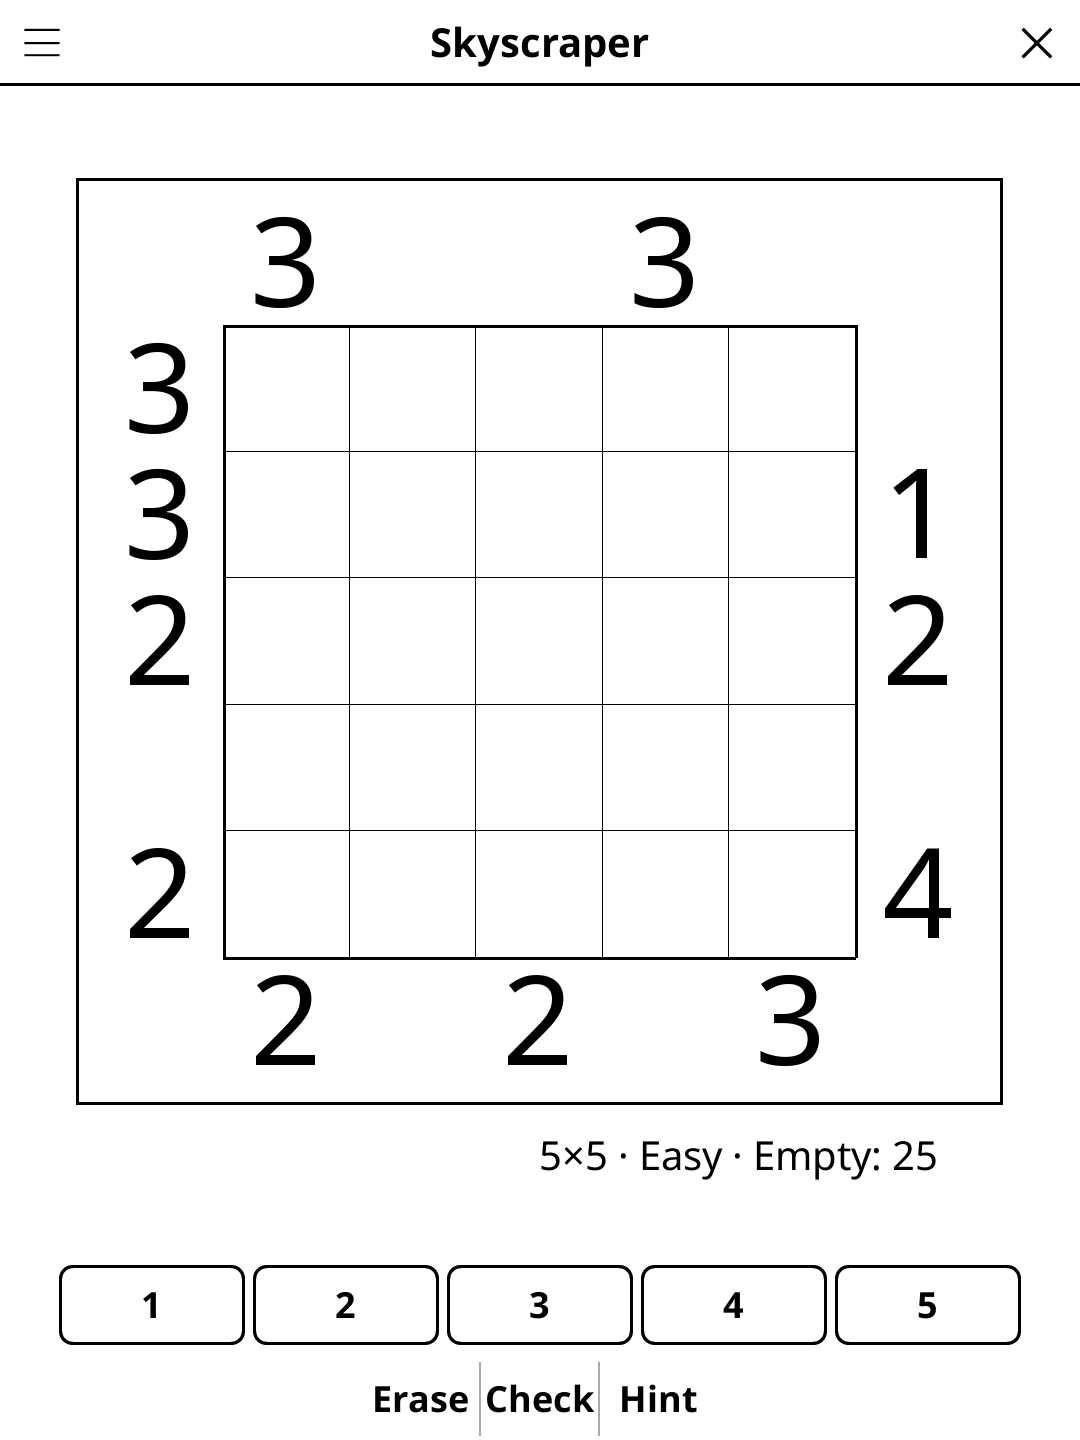
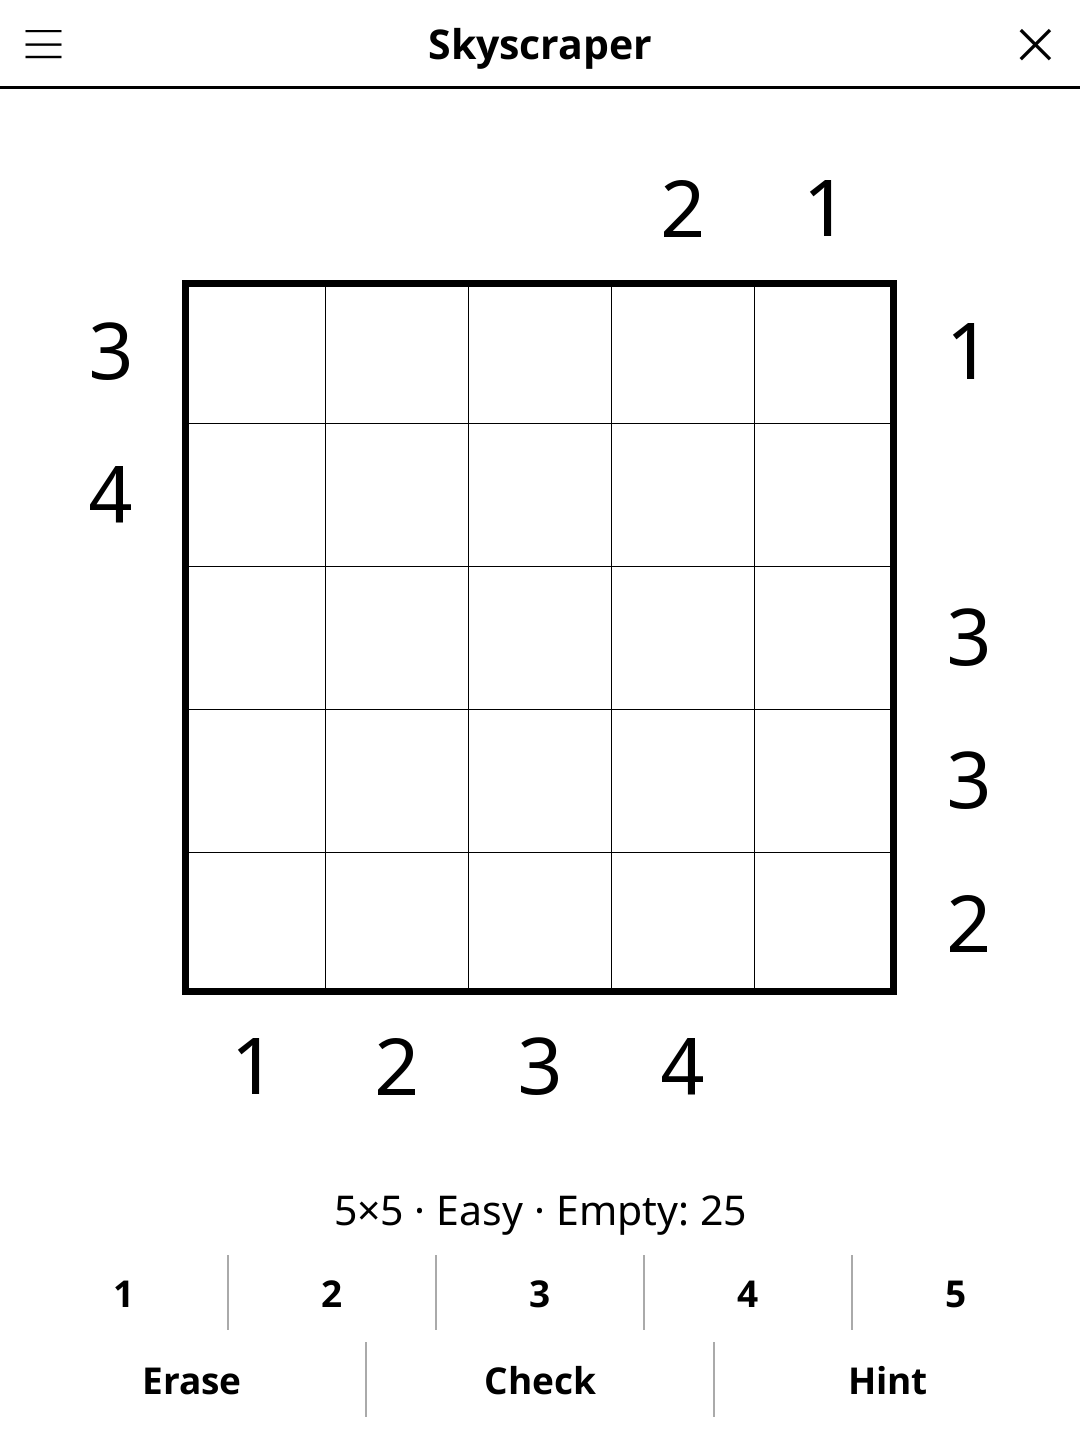
release: 1.3.0 -- redesigned screen, harmonised menu, New game at round end
Screen redesign (full-width action bar, unified pad, status line, larger
board), harmonised title-bar menu, and a "New game" button once the round
is over. See CHANGELOG.md.

diff --git a/CHANGELOG.md b/CHANGELOG.md
@@ -2,6 +2,27 @@
 
 All notable changes to this project will be documented in this file.
 
+## [1.3.0] - 2026-10-30
+
+### Changed
+- Redesigned play screen: the board is larger, filling the room the controls
+  leave, with one even digit pad and a full-width action bar under the status
+  line. The grid's thick outer border is now the board's only frame.
+- The status line reads "5×5 · Medium · Empty: 12" and wraps in landscape
+  instead of being cut off.
+- The title-bar menu shows "Size: …" and "Difficulty: …" (was "Grid: …" and
+  "Diff: …"), like every other game.
+- Once the puzzle is solved, the action bar shows "New game" in place of
+  Erase/Check/Hint, so the next round no longer needs the menu.
+
+### Fixed
+- The clues around the grid came out nearly twice too big on high-DPI
+  readers, and digits overflowed their cells (the shared font fit accepted
+  every size). Both now fit on every screen.
+- The grid's right and bottom border lines were drawn past its edge.
+- Using a hint wiped the saved game; it is now kept. When a hint fills the
+  last cell, the status shows the win message.
+
 ## [1.2.2] - 2026-10-07
 
 ### Fixed

diff --git a/README.md b/README.md
@@ -34,7 +34,7 @@ Place building heights 1–N in each row and column (no repeats, like Sudoku). E
 | Enter a height | Tap the digit button |
 | Erase a cell | Tap **Erase** |
 | Check progress | Tap **Check** |
-| New puzzle | Tap **New** |
+| New puzzle | Tap **New game** |
 | Show rules | Tap **Rules** |
 
 ## License
